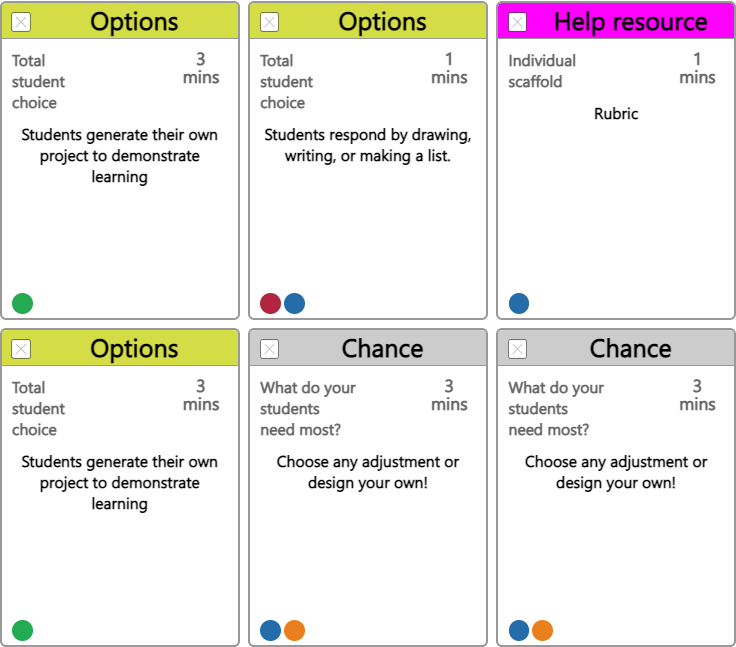
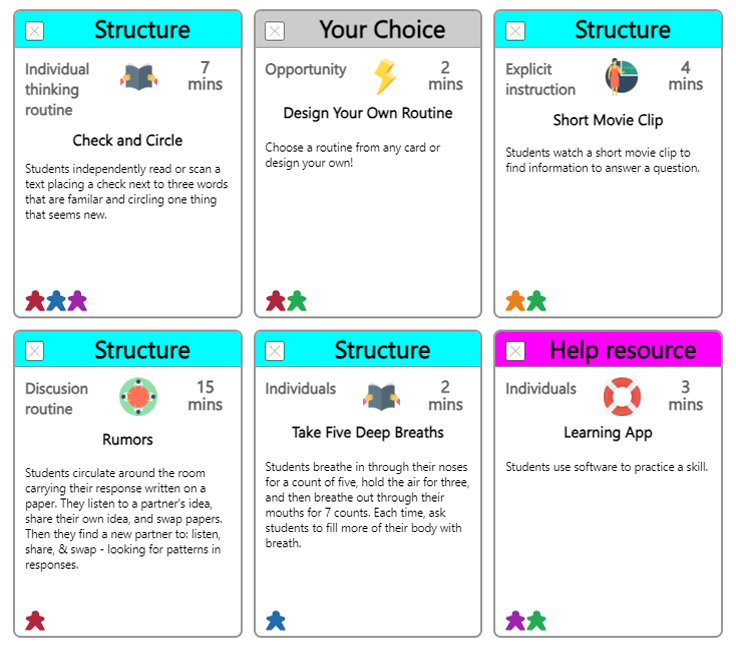
new student idons

Changed region(s): [[0.0, 0.0, 1.0, 1.0]]

diff --git a/index.html b/index.html
@@ -468,14 +468,17 @@ class App  {
 	ShowAssess(id, pct=50)																			// RUN ASSESSMENT MODULE
 	{
 		if (isLocal) return;																			// Not for debugging
-		$("#lz-assess").remove();																		// Remove old
-		let wid=$(window).width()*pct/100;																// Set height
-		let url=`assess.htm?i=AGQ&j=${id}&e=${this.id}`;												// Assess module url
-		let str=`<div id="lz-assess" style="position:absolute;background-color:#eee;
-			border:1px solid #999;display:block;
-			width:${wid}px;height:${wid*.5625}px;top:11vw;left:calc(12.5% + 24px)">
-			<iframe style="width:100%;height:100%" src="${url}" frameborder="0" ></iframe>`;
-		$("body").append(str.replace(/\t|\n|\r/g,""));													// Add it
+		try{
+			$("#lz-assess").remove();																	// Remove old
+			let wid=$(window).width()*pct/100;															// Set height
+			let url=`assess.htm?i=AGQ&j=${id}&e=${this.id}`;											// Assess module url
+			let str=`<div id="lz-assess" style="position:absolute;background-color:#eee;
+				border:1px solid #999;display:block;
+				width:${wid}px;height:${wid*.5625}px;top:11vw;left:calc(12.5% + 24px)">
+				<iframe style="width:100%;height:100%" src="${url}" frameborder="0" ></iframe>`;
+			$("body").append(str.replace(/\t|\n|\r/g,""));												// Add it
+			}
+		catch(e) { trace("error",e); $("#lz-assess").remove(); 	}
 	}
 
 	VideoChat(focus="",pct=50)																		// OPEN VIDEO CHAT
@@ -607,8 +610,7 @@ class App  {
 				if (o.pic)	str+=`<img src="${o.pic}" style="width:${hgt/8}px">`;
 			str+=`</div><div style="grid-area:students;padding-left:${pad}px;align-self:end">`;
 			for (i=0;i<oo.students.length;++i)
-				str+=`<div style="display:inline-block;background-color:${this.stuCols[oo.students[i]-1]};
-				margin-right:3px;border-radius:25px;width:${hgt/15}px;height:${hgt/15}px"></div>`
+				str+=`<img src="img/stuicon${[oo.students[i]]}.png" style="width:${hgt/15}px;margin-right:1px">`;
 			str+="</div></div>";
 			return str;
 	}

diff --git a/japp.htm b/japp.htm
@@ -12,7 +12,7 @@
 <script>
 
 	let v=window.location.search.substring(1).split("&");
-	let domain='meet.jit.si';
+	let domain='jitsi.member.fsf.org';
 	const options= {
 		roomName: v[0],
 		width: "100%",height:window.innerHeight,
